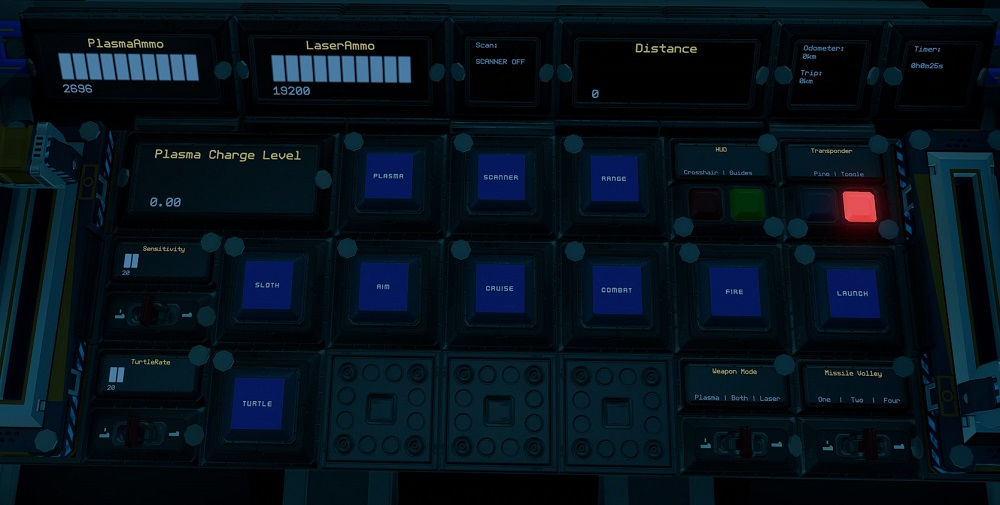
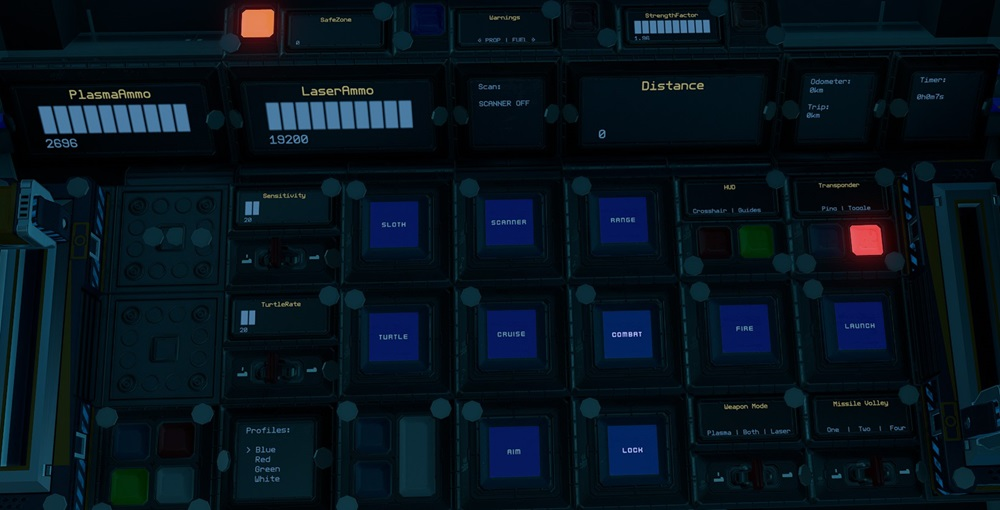
whaler: version 1.1.0

diff --git a/whaler/USAGE.md b/whaler/USAGE.md
@@ -19,17 +19,16 @@ To enter the ship, there is are buttons on each side of the front of the ship th
 | `Cruise` | Activates cruise control, forward thrust will not reset to zero unless turned down. |
 | `Turtle` | Activates turtle mode which sets forward thrust to a maximum limit of `TurtleRate` of full thrust. |
 | `Sloth` | Activates the low sensitvity mode of pitch and yaw by limiting thrust. Use the `Sensitivity` switch to set the maximum thrust rate of sloth mode.|
+| `Profiles` | Adjusts preset flight profiles. See [Flight Profiles](https://starbase.egotech.space/pages/systems/flight/#flight-profiles). |
 | `Aim` | Reduces the response time of key presses for pitch and yaw. |
 | `Guides` | Activates rangefinders (except center one which can be activated separately) to be used as guide lasers. |
 | `Crosshair` | Activates beam crosshair. |
 | `Range` & `Distance` | Activates center rangefinder, with `Distance` showing distance to object. |
 | `Scanner` & `Scan` | Turns on the [Ore Scanner](#ore-scanner) and shows results of scan. |
 | `Combat`, `Fire`, `Weapon Mode`, `LaserAmmo`, `PlasmaAmmo`, `Launch`, `Missile Volley` & `Lock` | Weapon controls. See [Combat](#combat). |
-| `Nav`, `Autopilot`, `Avoidance` & `Target` | Autopilot controls. See [Autopilot](#auto-pilot). |
 | `ISAN2` | Current ISAN coordinates of ship. |
 | `NavGrid`, `NavP`, `NavC` & `Attitude` | [NavGrid](https://github.com/pcbennion/starbase-navgrid) system, see [Using the Waypoint System](#using-the-waypoint-system). |
-| `SafeZone` | Whether current location is in the safe zone. |
-| `StrengthFactor` | Current strength of ship. May fluctuate as ore crates are filled. Anything below 1.0 means ship is damaged. |
+| `Warnings`, `SafeZone` & `StrengthFactor` | Warnings for being outside safe zone, ship damage as well as low fuel or propellant. See [Warnings Panel](https://starbase.egotech.space/pages/systems/utility/#warnings). |
 | Transponder `Toggle` & `Ping` | [Transponder](https://starbase.egotech.space/pages/systems/utility/#transponder) controls, `Toggle` turns on and off ship transponder while `Ping` will activate transponder for three seconds |
 | `Timer` | See [Timer](https://starbase.egotech.space/pages/systems/utility/#timer). |
 | `Odometer` | See [Odometer](https://starbase.egotech.space/pages/systems/utility/#odometer). |
@@ -116,22 +115,6 @@ To edit currently selected waypoint, use your `U` tool to add name, X, Y and Z v
 
 </nord-banner>
 
-### Loading Waypoint to Auto Pilot
-
-Use `Load to Auto Pilot` to load curretnly selected waypoint to `Target` to be used with the auto pilot system.
-
-## Auto Pilot
-
-The ship uses a modified version of [NavCas](https://github.com/fixerid/sb-projects/tree/main/NavCas) which uses the 3 in 1 ISAN from Compass. Waypoints are loaded from NavGrid waypoint system.
-
-Use while the ship is stationary. Activating `Nav` will start point the ship towards `Target` waypoint and deactivate itself when done. `Autopilot` will activate `Nav` and fly to within 5km of `Target` waypoint.
-
-<nord-banner variant="warning">
-
-**NOTE:** `Nav` may not be very accurate. I recommend using it in conjunction with the NavGrid compass. The `dd` panel on the pilot left console shows debugging information for NavCas.
-
-</nord-banner>
-
 ## Resetting Navigation
 
 If ISAN or NavGrid is not working, it can be reset using the `Reset ISAN` button. Press once to take ISAN offline, then press again to reset.
@@ -153,7 +136,7 @@ If ISAN or NavGrid is not working, it can be reset using the `Reset ISAN` button
 | `Min Gen` & `Min Generator Rate` | Toggle and sets minimum generator rate. See [Managing Power and Fuel](#managing-power-and-fuel). |
 | `Shutdown` | Will turn off all fuel chambers thus shutting down generators. |
 | `Battery` | Shows current battery charge of the batteries, maximum of 10,000 units. |
-| `HeatTransferRate` | Current heat transfer rate of the heat sinks, maximum of 100%. |
+| `Solar` | Current energy units generated from solar panels, maximum of 1,800 units per second. |
 | `Flow In` & `Flow Out` | Toggle flow modes of resource bridges. See [Refilling Propellant](#refilling-propellant). |
 | `Tow`, `Tow Status`, `Tow Mass` & `Auto Gen` | Tow beam controls. See [Towing Ships](#towing-ships). |
 | `Right Cargo`, `Right Pod`, `Left Cargo` & `Left Pod` | Cargo frame controls. See [Storing Cargo](#storing-cargo). |

diff --git a/whaler/FEATURES.md b/whaler/FEATURES.md
@@ -4,10 +4,11 @@ The ship has the following standard features:
 
 - 144 ore crates
 - Standard Cruise function
-- Turtle and Sloth functions with adjustable rates
+- Turtle and Sloth functions with adjustable rates and preset profiles
 - Transponder system with ping function
 - Auto generator rate script with adjustable minimum rate
 - 36 T3 generators with 12 T3 fuel chambers and 24 spare rods on racks
+- Additional solar power with 72 panels
 - Radiators and heat sinks that provide more than adequate cooling
 - 12 large propellant tanks with 144,000,000 units of propellant
 - Cockpit with two pilot seats
@@ -26,7 +27,6 @@ The ship has the following standard features:
 - Reconstruction machine
 - Two large cargo pods with cargo lock frames to store cargo
 - [NavGrid by StandPeter](https://github.com/pcbennion/starbase-navgrid)
-- [NavCas by fixerid](https://github.com/fixerid/sb-projects/tree/main/NavCas), with ability to load target from NavGrid
 - Speedometer
 - Timer panel
 - Odometer panel

diff --git a/whaler/CHANGELOG.md b/whaler/CHANGELOG.md
@@ -1,5 +1,17 @@
 # Changelog
 
+## v1.1.0 (Current) - 07/12/2024
+
+- Added 36 solar panels each (total 72 panels) to top and bottom of ship
+- Replaced `HeatTransferRate` panel on bottom right pilot console with `Solar` panel
+- Removed NavCas auto pilot system
+- Added warnings panel to both pilot seats
+- Added flight profiles system, controls on both pilots seats
+- Resolved global variables conflicts between flight profiles and turrets
+- Removed `Battery`, `HeatTransferRate`, `PropTime` and `FuelTime` panels from top pilot console
+- Reshuffled all pilot consoles
+- Updated ship manual link in help chip
+
 ## v1.0.0 (Current) - 06/07/2023
 
 - Initial release
